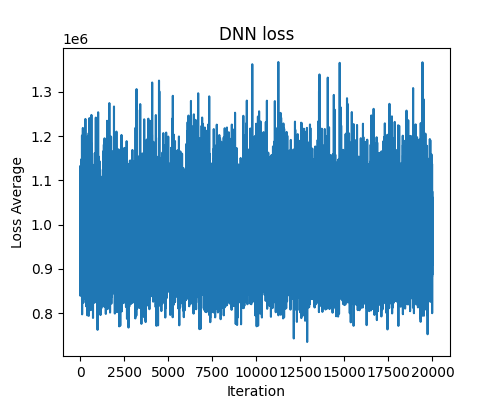
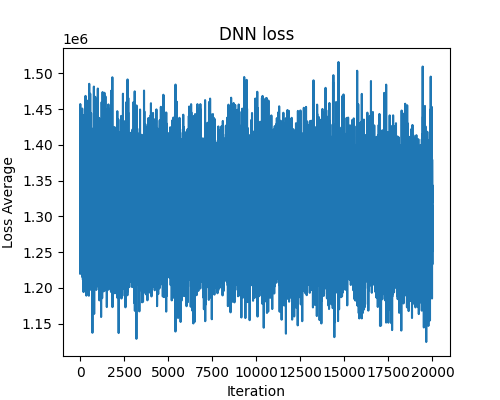
back to using momentum

diff --git a/Algorithms/dnn.py b/Algorithms/dnn.py
@@ -69,8 +69,8 @@ class DNN(NetworkABC):
         self.layer_last = SoftmaxWithLoss()
 
         # 죄적화에 Momentum 사용
-        self.optimizer = SGD(learn_rate)
-        # self.optimizer = Momentum(self.ws, self.bs, learn_rate, momentum)
+        # self.optimizer = SGD(learn_rate)
+        self.optimizer = Momentum(self.ws, self.bs, learn_rate, momentum)
 
         # 학습 중인지 나타 내는 플래그. Dropout 에 사용.
         self.training_mode = True
@@ -338,12 +338,13 @@ class Momentum:
         """
 
         # 가중치 & 편향 갱신
-        for velocities, params, grads in zip((self.v_w, self.v_b), (weights, biases), (grads_w, grads_b)):
-            # 가중치와 편향을 따로 계산하므로 for 루프로 한번 더 감쌈
+        for idx, grad in enumerate(grads_w):
+            self.v_w[idx] = self.moment * self.v_w[idx] - self.lr * grad
+            weights[idx] += self.v_w[idx]
 
-            for idx, (velocity, grad) in enumerate(zip(velocities, grads)):
-                velocities[idx] = self.moment * velocity - self.lr * grad
-                params[idx] += velocities[idx]
+        for idx, grad in enumerate(grads_b):
+            self.v_b[idx] = self.moment * self.v_b[idx] - self.lr * grad
+            biases[idx] += self.v_b[idx]
 
 
 class SGD:
